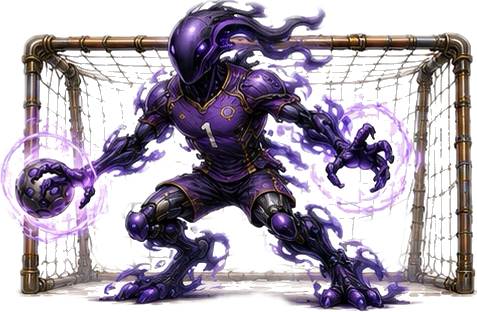
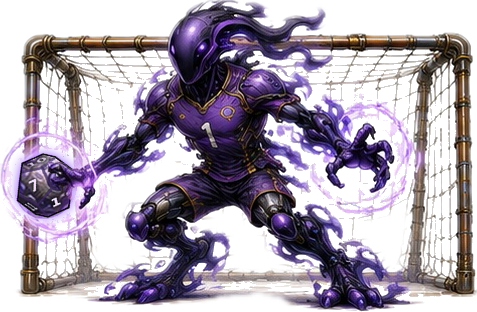
Portraits: the ball is a d12, with numbers on it
Eighteen portraits showed a round ball; the game is played with a d12.
Each ball is replaced by the box art's own die wearing that ball's
painted surface, numbered on every face turned to the viewer the way a
real d12 is (opposite faces sum to 13, 6 and 9 dotted). What stood in
front of a ball -- Umbrik's hand, Acidel's and Glompex's toes,
Emberdash's flames -- is put back over the die from the painting, and
where the round ball bulged past the die the painting around it closes
over the gap.

Kindlefinger keeps its painted die; its glyphs are painted out and
replaced with 12, 4, 8, 10, 2 and 6.

Synapse is left as it was: its draft was not taken.

Light greys on the dice carry a few units of the team's colour so the
recut does not read them as studio background; every portrait is
still settled under scripts/recut_player_portraits.py.

Claude-Session: https://claude.ai/code/session_01L2CRPoTSQqcJqcmBuAoUWW

Changed region(s): [[0.0, 0.4615, 0.1761, 0.7212]]

diff --git a/d12ball/box_art.py b/d12ball/box_art.py
@@ -613,8 +613,10 @@ class DieMaterial:
     What the ball is made of.
 
     It was white, which is what a d12 is in a dice shop and nothing
-    this game's art has ever contained: the balls in the players' own
-    portraits are dark, dimpled, organic things. So the die is drawn
+    this game's art has ever contained: the balls the players were
+    painted with are dark, dimpled, organic things, and the dice that
+    replaced them in the portraits wear the same surfaces (cards.md,
+    "The ball in a portrait is a d12"). So the die is drawn
     as a piece of hard dark rubber -- a lit face, a shadowed one, a
     grain over both, worn seams where the faces meet, and bone
     numerals cut into it.

diff --git a/docs/design/cards.md b/docs/design/cards.md
@@ -436,6 +436,22 @@ python3 scripts/render_player_cards.py --fronts-only   # the old one-sided run
     background that hides this. The printed card is white, which is why the
     fault survived the cards being looked at, and the dark matchup image is
     what showed how much of it was still there.
+- **The ball in a portrait is a d12, with real numbers on it** (the author,
+  2026-09-27). Eighteen of the paintings showed a round ball and Kindlefinger's
+  die carried glyphs; the game is played with a d12. The balls were replaced by
+  the box art's own die (`box_art.d12_art`'s solid) wearing each painted
+  ball's surface, so an ooze die keeps its veins and a telekinetic one its
+  dimples. Every face turned to the viewer carries a number drawn in its own
+  plane, and the numbering is a real d12's: opposite faces sum to 13, so no
+  visible pair does, and 6 and 9 carry a dot. What stood in front of a ball
+  -- a hand, a toe, flames -- was put back over the die from the painting.
+  Kindlefinger kept its painted die and had its glyphs painted out and
+  numbered. **Synapse still shows its round ball**: its draft was not taken.
+  - **A light grey on a die is tinted, never left colourless.** A silver
+    highlight or a pale numeral is exactly what the recut takes for studio
+    background, so the replaced pixels near each die carry a few units of the
+    team's colour and stay under the level the cut feathers at -- the check in
+    `D12BallPortraitRecutTests` is what caught them.
 - **`Pen.paste` resizes straight to the supersampled canvas.** The
   supersampling is there because Pillow does not antialias the shapes the cards
   are drawn out of; a photograph put through it would be resampled twice for
